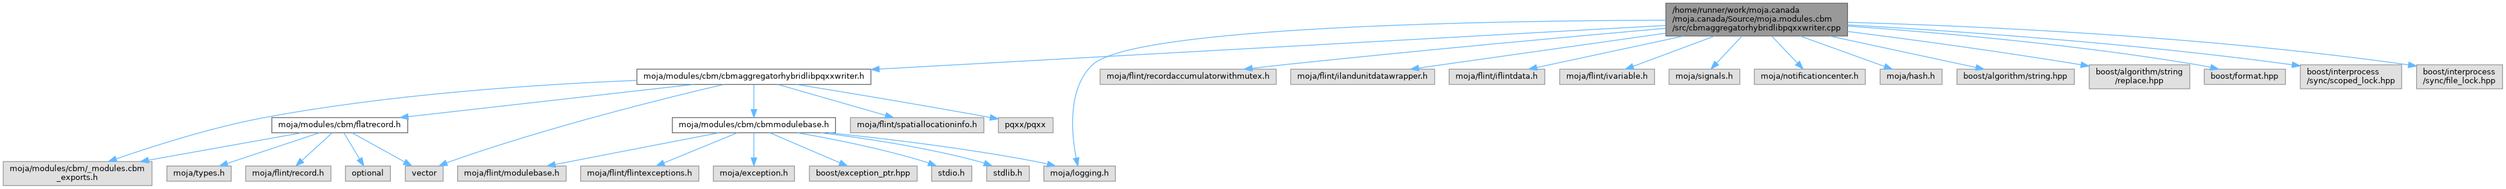
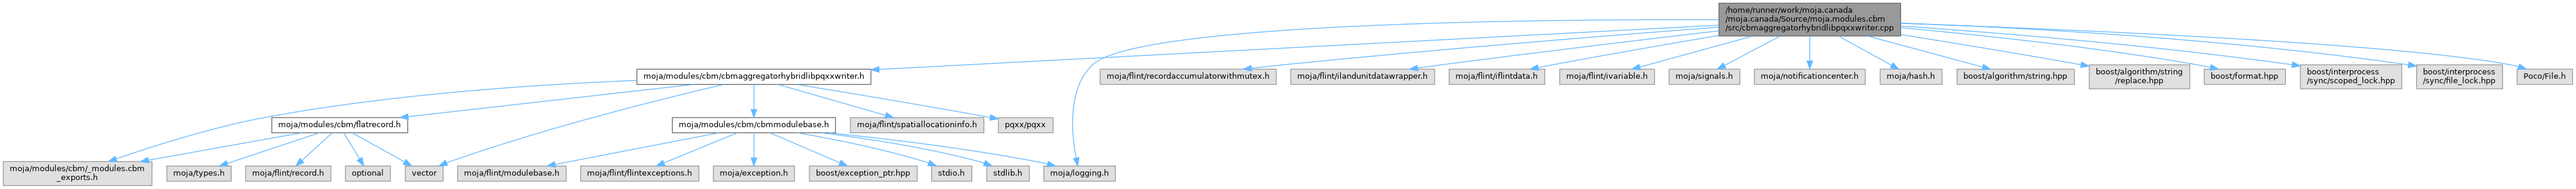
deploy: be3744b8f3cee042bbbef57b811523775a9799a5

diff --git a/cbmaggregatorhybridlibpqxxwriter_8cpp.html b/cbmaggregatorhybridlibpqxxwriter_8cpp.html
@@ -93,40 +93,43 @@ $(function() {
 <code>#include &lt;boost/format.hpp&gt;</code><br />
 <code>#include &lt;boost/interprocess/sync/scoped_lock.hpp&gt;</code><br />
 <code>#include &lt;boost/interprocess/sync/file_lock.hpp&gt;</code><br />
+<code>#include &lt;Poco/File.h&gt;</code><br />
 </div><div class="textblock"><div class="dynheader">
 Include dependency graph for cbmaggregatorhybridlibpqxxwriter.cpp:</div>
 <div class="dyncontent">
 <div class="center"><img src="cbmaggregatorhybridlibpqxxwriter_8cpp__incl.png" border="0" usemap="#a_2home_2runner_2work_2moja_8canada_2moja_8canada_2Source_2moja_8modules_8cbm_2src_2cbmaggregatorhybridlibpqxxwriter_8cpp" alt=""/></div>
 <map name="a_2home_2runner_2work_2moja_8canada_2moja_8canada_2Source_2moja_8modules_8cbm_2src_2cbmaggregatorhybridlibpqxxwriter_8cpp" id="a_2home_2runner_2work_2moja_8canada_2moja_8canada_2Source_2moja_8modules_8cbm_2src_2cbmaggregatorhybridlibpqxxwriter_8cpp">
-<area shape="rect" title=" " alt="" coords="2762,5,3063,60"/>
+<area shape="rect" title=" " alt="" coords="2850,5,3151,60"/>
 <area shape="rect" href="cbmaggregatorhybridlibpqxxwriter_8h.html" title=" " alt="" coords="1056,115,1444,141"/>
-<area shape="poly" title=" " alt="" coords="2762,45,1458,118,1458,112,2762,40"/>
+<area shape="poly" title=" " alt="" coords="2850,45,1458,118,1457,113,2850,39"/>
 <area shape="rect" title=" " alt="" coords="1731,277,1849,302"/>
-<area shape="poly" title=" " alt="" coords="2761,36,2502,39,2205,50,2066,59,1948,72,1860,89,1831,99,1813,110,1800,126,1791,144,1782,186,1782,228,1787,263,1782,263,1777,228,1777,186,1786,143,1796,123,1810,106,1829,94,1859,84,1948,67,2066,54,2204,44,2502,34,2761,31"/>
+<area shape="poly" title=" " alt="" coords="2850,35,2570,37,2245,47,2093,56,1962,69,1865,87,1833,98,1813,110,1800,126,1791,144,1782,186,1782,228,1787,263,1782,263,1777,228,1776,185,1786,143,1796,123,1810,106,1831,93,1864,82,1962,64,2092,51,2244,41,2570,32,2850,30"/>
 <area shape="rect" title=" " alt="" coords="1824,115,2116,141"/>
-<area shape="poly" title=" " alt="" coords="2762,50,2128,111,2077,116,2076,111,2127,105,2761,44"/>
+<area shape="poly" title=" " alt="" coords="2850,48,2518,75,2128,111,2075,116,2074,111,2127,105,2518,69,2850,43"/>
 <area shape="rect" title=" " alt="" coords="2140,115,2379,141"/>
-<area shape="poly" title=" " alt="" coords="2762,58,2390,111,2352,116,2352,111,2390,105,2761,53"/>
+<area shape="poly" title=" " alt="" coords="2850,54,2390,111,2351,116,2350,111,2390,105,2850,49"/>
 <area shape="rect" title=" " alt="" coords="2403,115,2561,141"/>
-<area shape="poly" title=" " alt="" coords="2792,63,2548,115,2547,110,2791,57"/>
+<area shape="poly" title=" " alt="" coords="2850,62,2574,111,2551,115,2550,110,2574,105,2849,56"/>
 <area shape="rect" title=" " alt="" coords="2586,115,2743,141"/>
-<area shape="poly" title=" " alt="" coords="2844,63,2709,113,2707,108,2842,58"/>
+<area shape="poly" title=" " alt="" coords="2907,63,2719,114,2718,109,2905,57"/>
 <area shape="rect" title=" " alt="" coords="2767,115,2885,141"/>
-<area shape="poly" title=" " alt="" coords="2890,62,2848,107,2844,103,2886,58"/>
+<area shape="poly" title=" " alt="" coords="2953,62,2860,111,2858,107,2950,58"/>
 <area shape="rect" title=" " alt="" coords="2909,115,3093,141"/>
-<area shape="poly" title=" " alt="" coords="2940,58,2982,103,2978,107,2936,62"/>
+<area shape="poly" title=" " alt="" coords="3003,60,3003,101,2998,101,2998,60"/>
 <area shape="rect" title=" " alt="" coords="3117,115,3220,141"/>
-<area shape="poly" title=" " alt="" coords="2986,58,3125,108,3124,113,2984,63"/>
+<area shape="poly" title=" " alt="" coords="3049,58,3138,107,3135,111,3047,62"/>
 <area shape="rect" title=" " alt="" coords="3245,115,3439,141"/>
-<area shape="poly" title=" " alt="" coords="3034,57,3277,110,3276,115,3033,63"/>
+<area shape="poly" title=" " alt="" coords="3097,57,3288,109,3286,114,3096,63"/>
 <area shape="rect" title=" " alt="" coords="3464,108,3631,148"/>
-<area shape="poly" title=" " alt="" coords="3064,50,3244,74,3451,105,3450,111,3244,79,3063,55"/>
+<area shape="poly" title=" " alt="" coords="3152,55,3450,105,3449,110,3151,60"/>
 <area shape="rect" title=" " alt="" coords="3655,115,3789,141"/>
-<area shape="poly" title=" " alt="" coords="3064,41,3335,64,3490,83,3644,105,3666,110,3665,115,3643,111,3489,88,3334,70,3063,46"/>
+<area shape="poly" title=" " alt="" coords="3152,44,3384,68,3644,105,3665,110,3664,115,3643,111,3383,73,3151,49"/>
 <area shape="rect" title=" " alt="" coords="3814,108,3982,148"/>
-<area shape="poly" title=" " alt="" coords="3064,39,3398,62,3598,81,3801,105,3800,111,3597,86,3397,67,3063,44"/>
+<area shape="poly" title=" " alt="" coords="3152,41,3448,65,3623,83,3801,105,3800,111,3622,88,3447,70,3151,46"/>
 <area shape="rect" title=" " alt="" coords="4007,108,4149,148"/>
-<area shape="poly" title=" " alt="" coords="3064,35,3248,41,3479,54,3734,75,3993,105,3993,111,3734,80,3478,59,3248,47,3063,40"/>
+<area shape="poly" title=" " alt="" coords="3152,36,3321,43,3530,57,3760,77,3993,105,3993,111,3759,82,3530,62,3321,49,3151,41"/>
+<area shape="rect" title=" " alt="" coords="4173,115,4265,141"/>
+<area shape="poly" title=" " alt="" coords="3152,36,3687,61,3962,81,4076,92,4163,105,4177,109,4175,114,4161,111,4075,98,3962,86,3687,66,3152,42"/>
 <area shape="rect" title=" " alt="" coords="5,269,252,309"/>
 <area shape="poly" title=" " alt="" coords="1056,137,919,144,763,155,600,173,439,199,307,231,193,267,192,262,305,226,437,193,599,168,763,150,919,138,1056,131"/>
 <area shape="rect" href="flatrecord_8h.html" title=" " alt="" coords="451,196,676,221"/>
